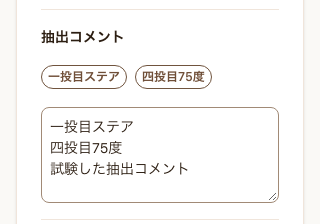
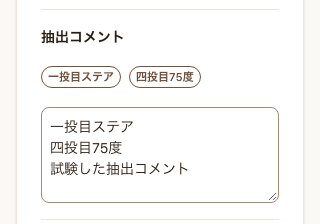
Use caption text for brew comment presets

Changed region(s): [[0.125, 0.2812, 0.6875, 0.4062]]

diff --git a/packages/ui/src/components/chip.tsx b/packages/ui/src/components/chip.tsx
@@ -4,16 +4,39 @@ import styles from "./chip.module.css";
 
 type ChipVariant = "filled" | "outline";
 type ChipTone = "neutral" | "hot" | "iced" | "warning";
+type ChipTextSize = "helper" | "caption";
 
-export type ChipProps = ComponentProps<"span"> & { variant?: ChipVariant; tone?: ChipTone };
-type ChipAction = { children: ReactNode; variant?: ChipVariant };
+export type ChipProps = ComponentProps<"span"> & {
+  variant?: ChipVariant;
+  tone?: ChipTone;
+  textSize?: ChipTextSize;
+};
+type ChipAction = Pick<ChipProps, "variant" | "textSize"> & { children: ReactNode };
 
-export function Chip({ variant = "filled", tone = "neutral", className, ...props }: ChipProps) {
-  return <span className={cn(styles.chip, styles[variant], styles[tone], className)} {...props} />;
+export function Chip({
+  variant = "filled",
+  tone = "neutral",
+  textSize = "helper",
+  className,
+  ...props
+}: ChipProps) {
+  return (
+    <span
+      className={cn(
+        styles.chip,
+        styles[variant],
+        styles[tone],
+        textSize === "caption" && styles.caption,
+        className,
+      )}
+      {...props}
+    />
+  );
 }
 
 export function ChipButton({
   variant,
+  textSize,
   children,
   type = "button",
   className,
@@ -21,20 +44,25 @@ export function ChipButton({
 }: ComponentProps<"button"> & ChipAction) {
   return (
     <button type={type} className={cn(styles.action, className)} {...props}>
-      <Chip variant={variant}>{children}</Chip>
+      <Chip variant={variant} textSize={textSize}>
+        {children}
+      </Chip>
     </button>
   );
 }
 
 export function ChipLink({
   variant,
+  textSize,
   children,
   className,
   ...props
 }: ComponentProps<"a"> & ChipAction & { href: string }) {
   return (
     <a className={cn(styles.action, className)} {...props}>
-      <Chip variant={variant}>{children}</Chip>
+      <Chip variant={variant} textSize={textSize}>
+        {children}
+      </Chip>
     </a>
   );
 }

diff --git a/scripts/ui/catalog.tsx b/scripts/ui/catalog.tsx
@@ -60,7 +60,9 @@ function Catalog() {
         <Chip tone="iced">アイス</Chip>
         <Chip tone="warning">評価 4</Chip>
         <ChipButton>背景ありのチップ</ChipButton>
-        <ChipButton variant="outline">枠線のチップ</ChipButton>
+        <ChipButton variant="outline" textSize="caption">
+          枠線のチップ
+        </ChipButton>
         <ChipButton variant="outline" disabled>
           利用不可のチップ
         </ChipButton>

diff --git a/apps/brewlog/src/components/forms/BrewLogFields.tsx b/apps/brewlog/src/components/forms/BrewLogFields.tsx
@@ -723,6 +723,7 @@ export const BrewLogFields = ({
                               <ChipButton
                                 key={preset}
                                 variant="outline"
+                                textSize="caption"
                                 disabled={disabled}
                                 aria-controls={control.id}
                                 onClick={() => {

diff --git a/packages/ui/src/components/chip.module.css b/packages/ui/src/components/chip.module.css
@@ -19,6 +19,9 @@
     --_chip-text: var(--cl-color-action-primary);
     --_chip-surface: var(--cl-color-surface-tonal);
   }
+  .caption {
+    font-size: var(--cl-font-size-caption);
+  }
   .hot {
     --_chip-text: var(--cl-color-temperature-hot);
     --_chip-surface: var(--cl-color-temperature-hot-surface);

diff --git a/packages/ui/src/components/chip.module.css.d.ts b/packages/ui/src/components/chip.module.css.d.ts
@@ -1,5 +1,6 @@
 declare const styles: {
   readonly action: string;
+  readonly caption: string;
   readonly chip: string;
   readonly filled: string;
   readonly hot: string;

diff --git a/docs/design-system/components.md b/docs/design-system/components.md
@@ -16,6 +16,7 @@
 - Checkboxは見た目と操作領域を分ける。小さな枠の周囲も44px以上の範囲で操作でき、ラベルのクリックとSpaceキーで切り替えられる。
 - ButtonにclassNameを渡して見た目を変える前に、既存の型付きAPIで表せるか確認する。
 - Chipは表示用のラベル、ChipButtonはボタン、ChipLinkはリンクに使う。背景付きは`filled`、背景なしの枠線は`outline`を指定する。操作できるチップは、表示部分の余白を詰めながら44px以上の操作領域を保つ。
+- チップの文字サイズは通常 `helper` を使う。抽出コメントの定型文のような短い候補には `textSize="caption"` で一段階小さくできる。
 - 必須、invalid、read-only、disabled、loading、hover、focusは、利用する部品の状態として確認する。
 - FieldのlabelVariant="secondary"は、fieldset内の繰り返し入力など、親見出しの下にあるラベルに使う。小さめの通常ウェイトと補助文字色で階層を示し、入力との関連付けは保つ。
 
